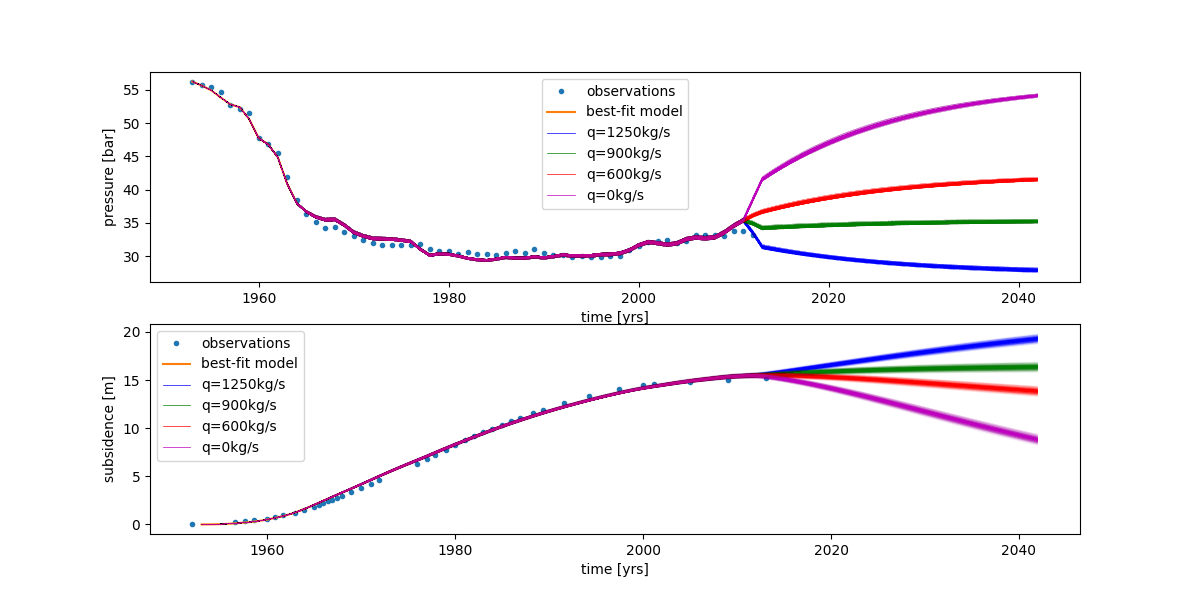
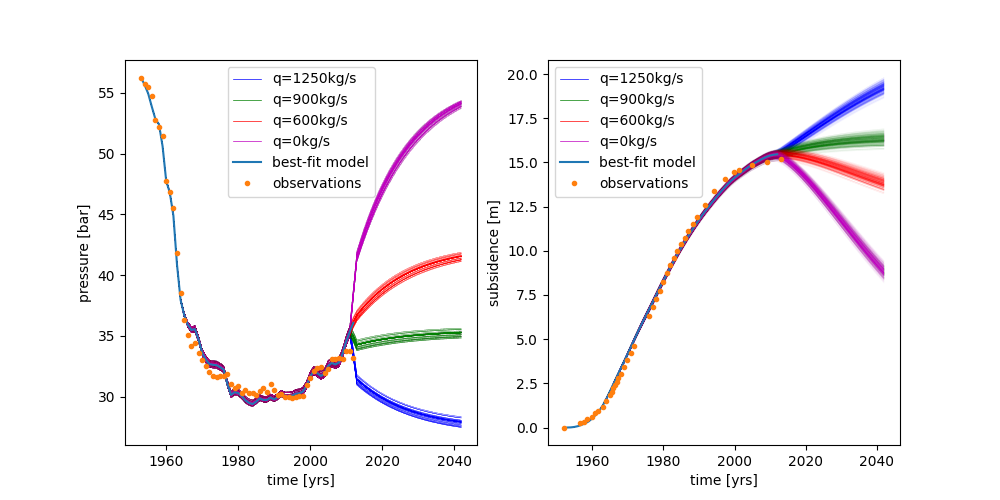
Update uncertainty forecast plot

diff --git a/uncertainty.py b/uncertainty.py
@@ -234,23 +234,7 @@ def forecast():
     ps_sub = np.random.multivariate_normal(p_sub, cov_sub, 25)  # samples from posterior
 
     # create figure
-    fig, (ax1, ax2) = plt.subplots(nrows=2)
-
-    # plot observations
-    ax1.plot(*load_pressure_data(), '.', label="observations")
-    ax2.plot(*load_subsidence_data(), '.', label="observations")
-
-    # plot best-fit solution
-    a, b1 = p_pres
-    b2, mv = p_sub
-
-    qi = interpolate_mass_extraction_rate(ti)
-    _, P = solve_reservoir_ode(reservoir_ode, t0, t1, dt, P0, qi, dq_dt(ti, qi), [a, b1, c, P0])
-    _, Pm = solve_mudstone_ode(mudstone_ode, t0, t1, dt, P, Pm0, [b2])
-    U = subsidence_eqn(Pm, Pm0, mv, L)
-
-    ax1.plot(ti, P, label="best-fit model")
-    ax2.plot(ti, U, label="best-fit model")
+    fig, (ax1, ax2) = plt.subplots(ncols=2)
 
     # forecast for q = 1250 kg/s
     qp = 1250*np.ones(len(tP))
@@ -312,6 +296,22 @@ def forecast():
     ax1.plot([], [], 'm-', lw=0.5, label='q=0kg/s')
     ax2.plot([], [], 'm-', lw=0.5, label='q=0kg/s')
 
+    # plot best-fit solution
+    a, b1 = p_pres
+    b2, mv = p_sub
+
+    qi = interpolate_mass_extraction_rate(ti)
+    _, P = solve_reservoir_ode(reservoir_ode, t0, t1, dt, P0, qi, dq_dt(ti, qi), [a, b1, c, P0])
+    _, Pm = solve_mudstone_ode(mudstone_ode, t0, t1, dt, P, Pm0, [b2])
+    U = subsidence_eqn(Pm, Pm0, mv, L)
+
+    ax1.plot(ti, P, label="best-fit model")
+    ax2.plot(ti, U, label="best-fit model")
+
+    # plot observations
+    ax1.plot(*load_pressure_data(), '.', label="observations")
+    ax2.plot(*load_subsidence_data(), '.', label="observations")
+
     # set axis labels and legends
     ax1.set_ylabel('pressure [bar]')
     ax2.set_ylabel('subsidence [m]')
@@ -321,7 +321,7 @@ def forecast():
     ax2.legend()
 
     # display figure
-    fig.set_size_inches(12, 6)
+    fig.set_size_inches(10, 5)
     plt.show()
 
 def parameter_histogram():
@@ -384,6 +384,6 @@ def parameter_histogram():
     fig.show()
 
 if __name__ == "__main__":
-    model_ensemble()
+    # model_ensemble()
     forecast()
-    parameter_histogram()
+    # parameter_histogram()
